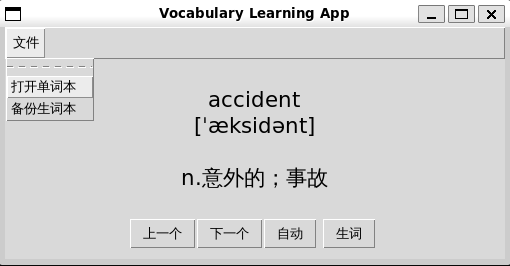
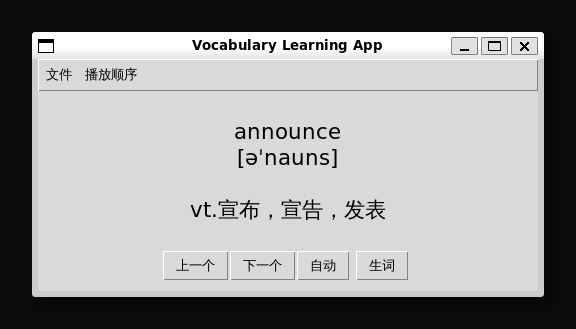
update(app):新增顺序和乱序功能；增加示例图

diff --git a/learn.py b/learn.py
@@ -6,6 +6,7 @@ import json
 import re
 from datetime import datetime
 import os
+import random
 
 class VocabularyApp:
     def __init__(self, master):
@@ -47,6 +48,13 @@ class VocabularyApp:
         self.file_menu.add_command(label="打开单词本", command=self.load_file)
         self.file_menu.add_command(label="备份生词本", command=self.backup_new_word_file)
 
+        self.order_menu = tk.Menu(self.menu, tearoff=0)
+        self.menu.add_cascade(label="播放顺序", menu=self.order_menu)
+
+        self.order_menu.add_command(label="顺序", command=lambda: self.set_play_order("sequential"))
+        self.order_menu.add_command(label="乱序", command=lambda: self.set_play_order("random"))
+
+
         self.load_previous_session()
         self.update_word_label()
 
@@ -78,9 +86,16 @@ class VocabularyApp:
             self.current_index = (self.current_index - 1) % len(self.vocabulary)
             self.update_word_label()
 
+    def set_play_order(self, order):
+        self.play_order = order
+        print(f"播放顺序设置为: {'顺序' if order == 'sequential' else '乱序'}")
+
     def next_word(self):
         if self.vocabulary:
-            self.current_index = (self.current_index + 1) % len(self.vocabulary)
+            if self.play_order == "sequential":
+                self.current_index = (self.current_index + 1) % len(self.vocabulary)
+            else:  # 如果是乱序播放
+                self.current_index = random.randint(0, len(self.vocabulary) - 1)
             self.update_word_label()
 
     def toggle_auto_display(self):
